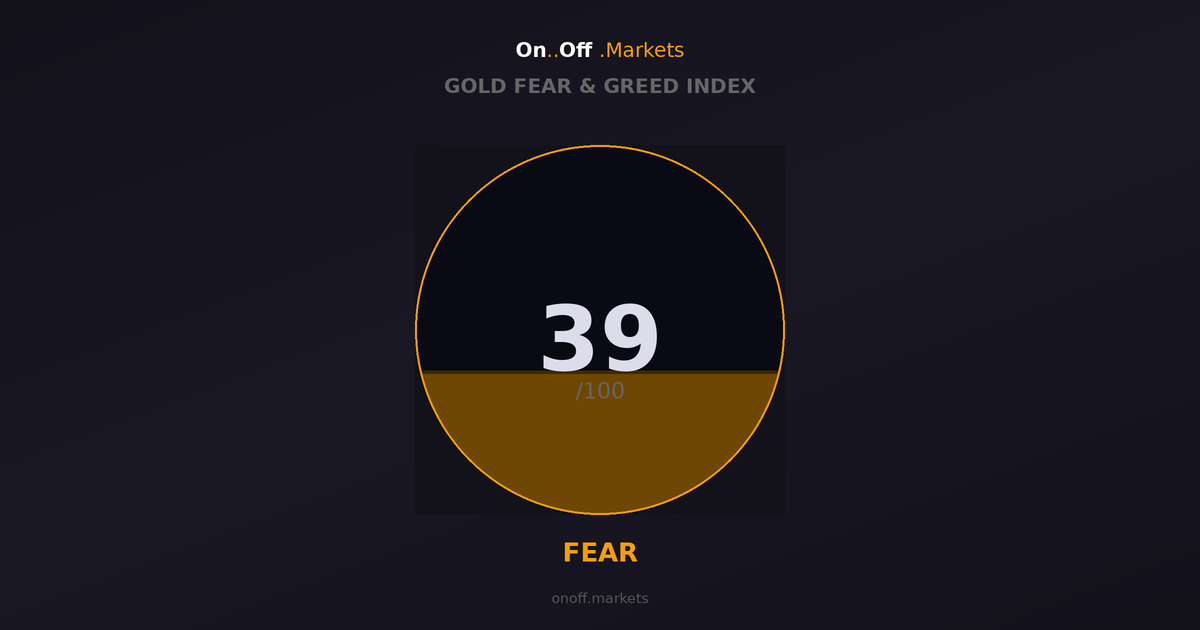
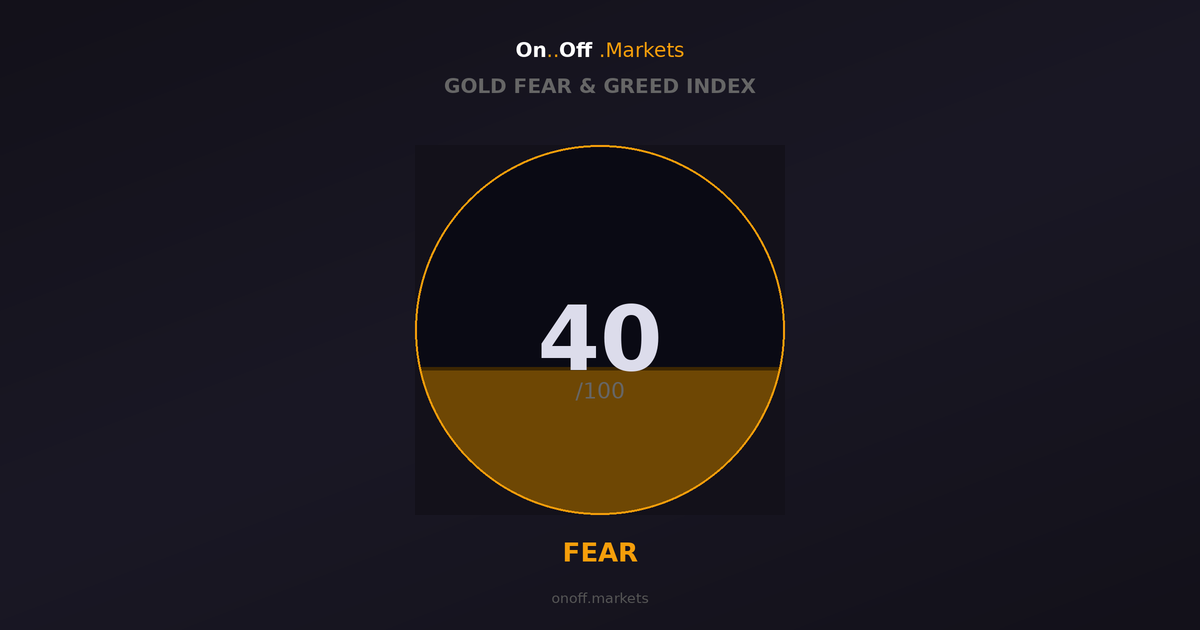
Update Gold, Stocks, Crypto & Bonds Fear & Greed Indices - 2026-05-18 06:17 UTC

Changed region(s): [[0.3392, 0.4825, 0.6475, 0.6032]]

diff --git a/index.html b/index.html
@@ -16,7 +16,7 @@
     <link rel="canonical" href="https://onoff.markets/">
 
     <!-- SEO Meta Tags -->
-    <meta name="description" content="Market sentiment is 48 (neutral). Gold 39, Bonds 39, Stocks 63, Crypto 53. Track real-time Fear &amp; Greed across 4 asset classes. Updated daily.">
+    <meta name="description" content="Market sentiment is 49 (neutral). Gold 40, Bonds 39, Stocks 63, Crypto 54. Track real-time Fear &amp; Greed across 4 asset classes. Updated daily.">
     <meta name="keywords" content="market sentiment, fear and greed index, gold sentiment, bonds sentiment, crypto fear greed, stock market sentiment, market fear greed">
     <meta name="author" content="OnOff.Markets">
 
@@ -41,10 +41,10 @@
         "@type": "WebApplication",
         "name": "OnOff.Markets — Fear & Greed Index",
         "url": "https://onoff.markets",
-        "description": "Market sentiment is 48 (neutral). Gold 39, Bonds 39, Stocks 63, Crypto 53. Track real-time Fear & Greed across 4 asset classes. Updated daily.",
+        "description": "Market sentiment is 49 (neutral). Gold 40, Bonds 39, Stocks 63, Crypto 54. Track real-time Fear & Greed across 4 asset classes. Updated daily.",
         "applicationCategory": "FinanceApplication",
         "operatingSystem": "All",
-        "dateModified": "2026-05-17",
+        "dateModified": "2026-05-18",
         "offers": {
                 "@type": "Offer",
                 "price": "0",
@@ -583,7 +583,7 @@
         <div class="header">
             <h1>Market Sentiment</h1>
             <div class="tagline">Are investors fearful or greedy today?</div>
-            <div class="updated" id="updated">Updated: May 17, 2026</div>
+            <div class="updated" id="updated">Updated: May 18, 2026</div>
         </div>
 
         <!-- Hero Score: Circle Gauge -->
@@ -607,7 +607,7 @@
                         <rect id="water-fill" x="0" y="200" width="200" height="200" fill="url(#fill-gradient)" />
                         <path id="wave" d="" fill="url(#fill-gradient)" opacity="0.6" />
                     </g>
-                    <text x="100" y="82" class="circle-score-text" id="score" text-anchor="middle" dominant-baseline="central">48</text>
+                    <text x="100" y="82" class="circle-score-text" id="score" text-anchor="middle" dominant-baseline="central">49</text>
                     <text id="sentimentArrow" class="circle-arrow" x="138" y="82" text-anchor="start" dominant-baseline="central"></text>
                     <text x="100" y="107" class="circle-suffix" text-anchor="middle" dominant-baseline="central">/100</text>
                     <text x="100" y="155" class="circle-label" id="label" text-anchor="middle" dominant-baseline="central">NEUTRAL</text>
@@ -621,7 +621,7 @@
                 <span class="insight-icon">💡</span>
                 <h2 class="insight-title">What's happening</h2>
             </div>
-            <div class="insight-text" id="insight">The Iran war&#x27;s oil shock is stoking inflation fears and bond market pressure, with concerns the Fed may be behind the curve — while the three-day Trump-Xi Beijing summit closed without a meaningful breakthrough on the Strait of Hormuz standoff. US 10-year yields posted their biggest weekly jump since Trump&#x27;s tariffs roiled markets in April 2025, hammering bonds and gold while leaving equities holding gains on trade truce optimism.</div>
+            <div class="insight-text" id="insight">A global bond rout — led by longer-dated Treasuries most vulnerable to accelerating inflation — carried over into this week as the Iran war&#x27;s energy shock keeps rate-hike bets alive. The Trump-Xi Beijing summit ended without progress on reopening the Strait of Hormuz, leaving oil elevated and inflation pressure intact.</div>
             <div class="context-section" id="contextBox" style="display:none;">
                 <div class="context-label">Context <span class="beta-tag">Beta</span></div>
                 <div class="context-text" id="contextText"></div>
@@ -659,7 +659,7 @@
                             <rect id="goldFill" x="0" y="100" width="100" height="100" fill="url(#mini-grad-gold)"/>
                             <path id="goldWave" d="" fill="url(#mini-grad-gold)" opacity="0.5"/>
                         </g>
-                        <text x="50" y="50" class="mini-score-text" id="goldValue" text-anchor="middle" dominant-baseline="central">39</text>
+                        <text x="50" y="50" class="mini-score-text" id="goldValue" text-anchor="middle" dominant-baseline="central">40</text>
                     </svg>
                 </div>
                 <div class="asset-trend" id="goldTrend"></div>
@@ -743,7 +743,7 @@
                             <rect id="cryptoFill" x="0" y="100" width="100" height="100" fill="url(#mini-grad-crypto)"/>
                             <path id="cryptoWave" d="" fill="url(#mini-grad-crypto)" opacity="0.5"/>
                         </g>
-                        <text x="50" y="50" class="mini-score-text" id="cryptoValue" text-anchor="middle" dominant-baseline="central">53</text>
+                        <text x="50" y="50" class="mini-score-text" id="cryptoValue" text-anchor="middle" dominant-baseline="central">54</text>
                     </svg>
                 </div>
                 <div class="asset-trend" id="cryptoTrend"></div>
